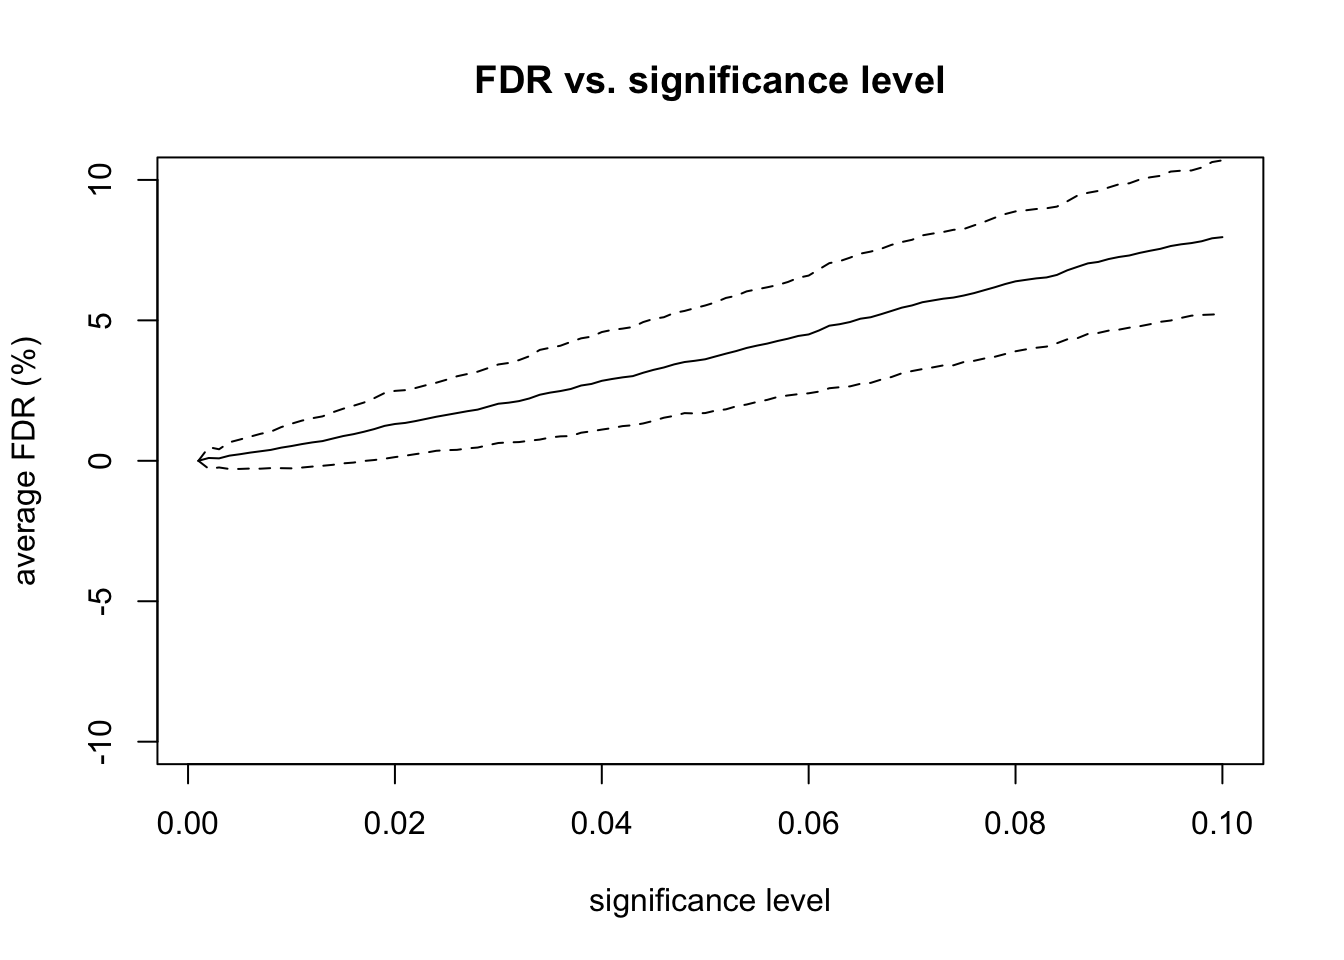
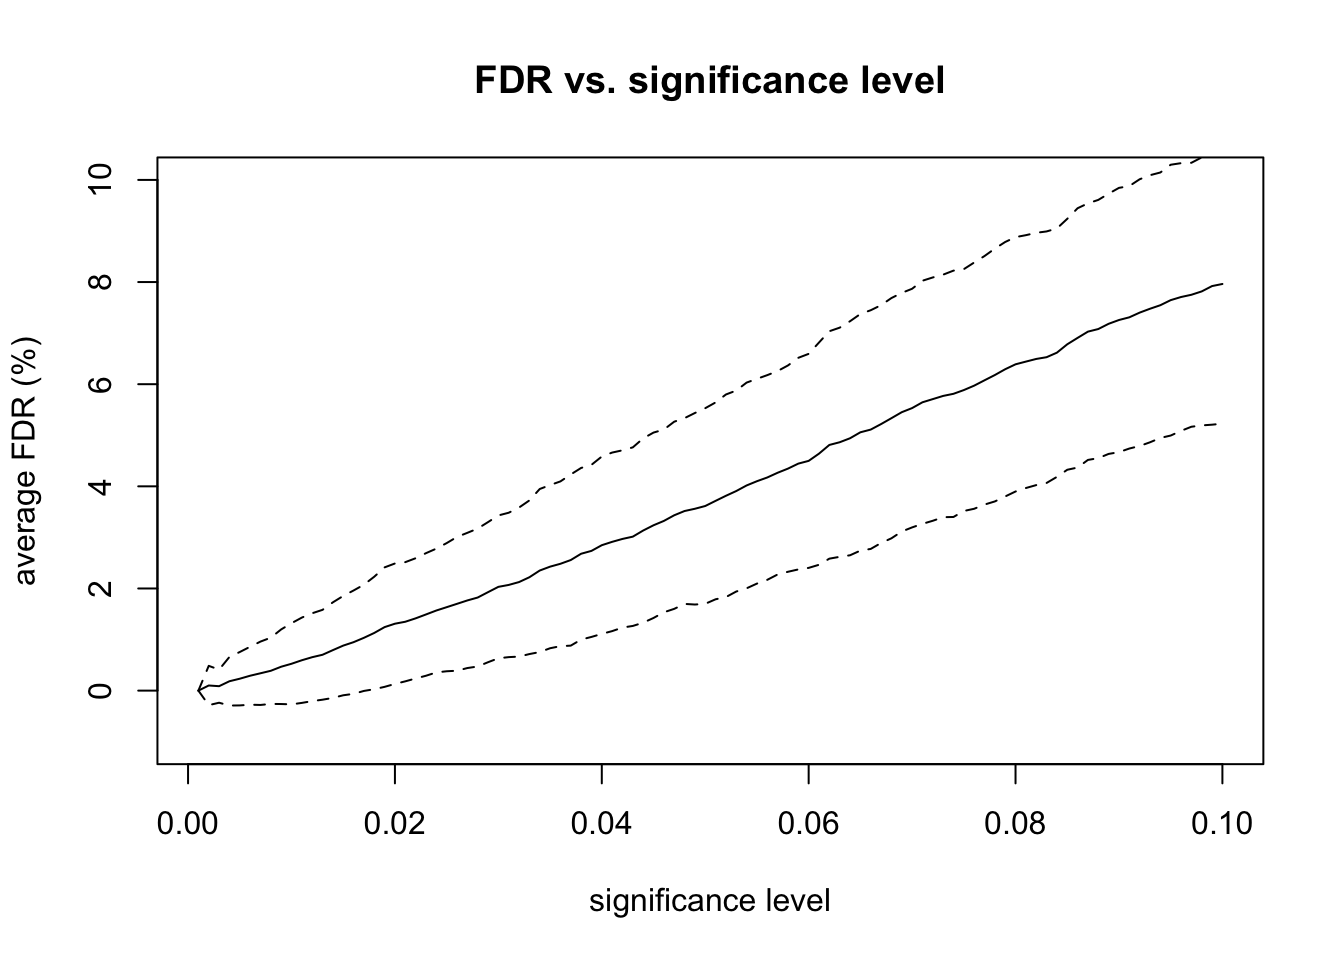
y axis lims

diff --git a/docs/posts/2024-05-06-sim-part-1/index.html b/docs/posts/2024-05-06-sim-part-1/index.html
@@ -219,7 +219,7 @@ div.csl-indent {
 
 
 
-<p>For one of my spatial transcriptomics research projects, I am working on simulating data to evaluate the sensitivity and specificity of our method. I wanted to document the process of understanding how to simulate counts data, as there are many learning opportunities along the way. This post is the first part, in which I will discuss understanding false discovery rate (FDR) in a basic differential expression analysis.</p>
+<p>For one of my spatial transcriptomics research projects, I am working on simulating data to evaluate the sensitivity and specificity of our method. I wanted to document the process simulating counts data, as there are many learning opportunities along the way. This post is the first part, in which I will discuss understanding false discovery rate (FDR) in a basic differential expression analysis.</p>
 <p>The overall framework of the simulation is as follows. First, I simulated gene expression data for 1,000 genes with 20 samples. Second, I manipulated the gene expression values for 100 genes in half the samples to be much higher. Third, I computed differential expression tests for each gene. Fourth, I explored the p-values and false discovery rates. After a lot of trial and error, this code is the final version of the simulation. I will explain each parameter and variable value choice in greater detail below.</p>
 <div class="cell">
 <div class="sourceCode cell-code" id="cb1"><pre class="sourceCode r code-with-copy"><code class="sourceCode r"><span id="cb1-1"><a href="#cb1-1" aria-hidden="true" tabindex="-1"></a><span class="co"># simulate gene expression data for 1000 genes and 20 samples</span></span>
@@ -293,7 +293,7 @@ div.csl-indent {
 <span id="cb2-2"><a href="#cb2-2" aria-hidden="true" tabindex="-1"></a><span class="fu">plot</span>(alpha_levels, fdr_percent_avg, <span class="at">type =</span> <span class="st">"l"</span>,</span>
 <span id="cb2-3"><a href="#cb2-3" aria-hidden="true" tabindex="-1"></a>     <span class="at">xlab =</span> <span class="st">"significance level"</span>, <span class="at">ylab =</span> <span class="st">"average FDR (%)"</span>,</span>
 <span id="cb2-4"><a href="#cb2-4" aria-hidden="true" tabindex="-1"></a>     <span class="at">main =</span> <span class="st">"FDR vs. significance level"</span>,</span>
-<span id="cb2-5"><a href="#cb2-5" aria-hidden="true" tabindex="-1"></a>     <span class="at">ylim =</span> <span class="fu">c</span>(<span class="sc">-</span><span class="dv">10</span>, <span class="dv">10</span>))</span>
+<span id="cb2-5"><a href="#cb2-5" aria-hidden="true" tabindex="-1"></a>     <span class="at">ylim =</span> <span class="fu">c</span>(<span class="sc">-</span><span class="dv">1</span>, <span class="dv">10</span>))</span>
 <span id="cb2-6"><a href="#cb2-6" aria-hidden="true" tabindex="-1"></a><span class="fu">lines</span>(alpha_levels, fdr_percent_avg <span class="sc">+</span> fdr_percent_sd, <span class="at">lty =</span> <span class="dv">2</span>)</span>
 <span id="cb2-7"><a href="#cb2-7" aria-hidden="true" tabindex="-1"></a><span class="fu">lines</span>(alpha_levels, fdr_percent_avg <span class="sc">-</span> fdr_percent_sd, <span class="at">lty =</span> <span class="dv">2</span>)</span></code><button title="Copy to Clipboard" class="code-copy-button"><i class="bi"></i></button></pre></div>
 <div class="cell-output-display">
@@ -319,7 +319,7 @@ div.csl-indent {
 <p><img src="index_files/figure-html/unnamed-chunk-4-1.png" class="img-fluid" width="672"></p>
 </div>
 </div>
-<p>After examining the p-value histogram, I used the Benjamini &amp; Hochberg procedure to correct for multiple hypothesis testing. I used the adjusted p-values to analyze the FDR at various significance levels. For example, consider a significance level of 0.05. The total number of positive tests is the number of adjusted p-values that are less than 0.05. The number of false positives is the number of non-differentially expressed genes with adjusted p-values that are less than 0.05. The FDR is equal to the number of false positives divided by the total number of positive tests. So, we are rejecting as many null hypotheses as possible while guaranteeing that mo more than 5% of those rejected null hypotheses are false positives. I repeated this FDR calculation for significance levels ranging from 0.001 to 0.1.</p>
+<p>After examining the p-value histogram, I used the Benjamini &amp; Hochberg procedure to correct for multiple hypothesis testing. I used the adjusted p-values to analyze the FDR at various significance levels. For example, consider a significance level of 0.05. The total number of positive tests is the number of adjusted p-values that are less than 0.05. The number of false positives is the number of non-differentially expressed genes with adjusted p-values that are less than 0.05. The FDR is equal to the number of false positives divided by the total number of positive tests. So, we are rejecting as many null hypotheses as possible while guaranteeing that no more than 5% of those rejected null hypotheses are false positives. I repeated this FDR calculation for significance levels ranging from 0.001 to 0.1.</p>
 <div class="cell">
 <div class="cell-output-display">
 <p><img src="index_files/figure-html/unnamed-chunk-5-1.png" class="img-fluid" width="672"></p>

diff --git a/docs/posts.html b/docs/posts.html
@@ -172,7 +172,7 @@ ul.task-list li input[type="checkbox"] {
 
 <div class="quarto-listing quarto-listing-container-default" id="listing-listing">
 <div class="list quarto-listing-default">
-<div class="quarto-post image-right" data-index="0" data-categories="FDR,genomics" data-listing-date-sort="1714968000000" data-listing-file-modified-sort="1715009264688" data-listing-date-modified-sort="NaN" data-listing-reading-time-sort="15">
+<div class="quarto-post image-right" data-index="0" data-categories="FDR,genomics" data-listing-date-sort="1714968000000" data-listing-file-modified-sort="1715012396926" data-listing-date-modified-sort="NaN" data-listing-reading-time-sort="15">
 <div class="thumbnail">
 <p><a href="./posts/2024-05-06-sim-part-1/index.html"> <p class="card-img-top"><img src="posts/2024-05-06-sim-part-1/index_files/figure-html/unnamed-chunk-1-1.png"  class="thumbnail-image card-img"/></p> </a></p>
 </div>
